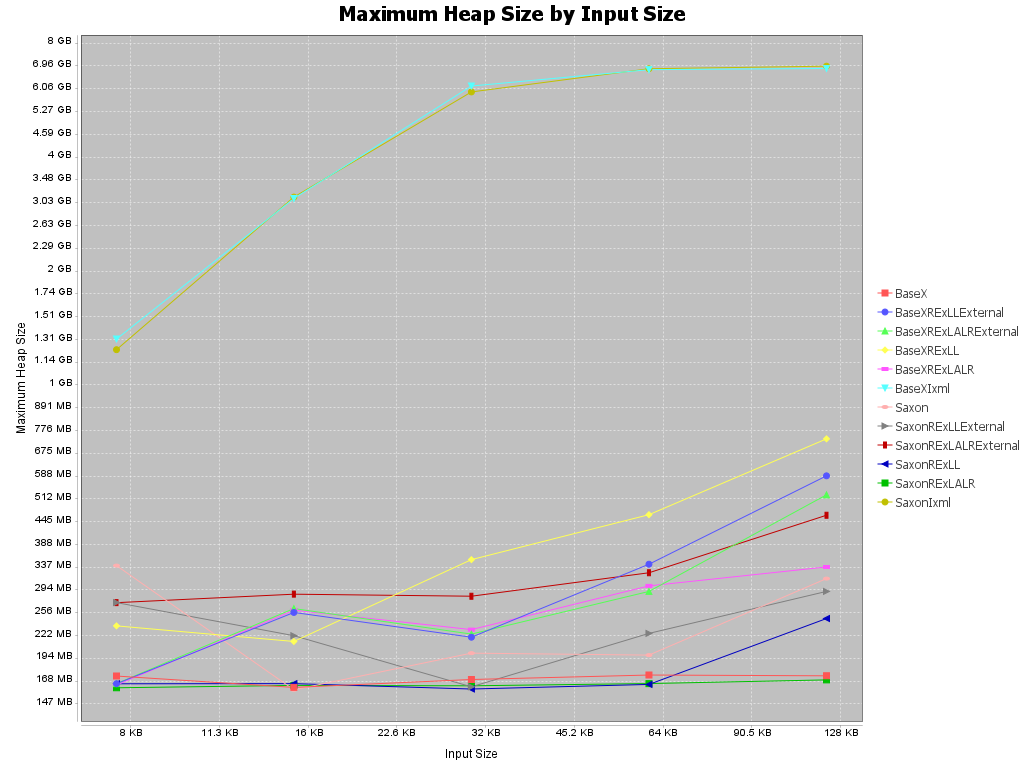
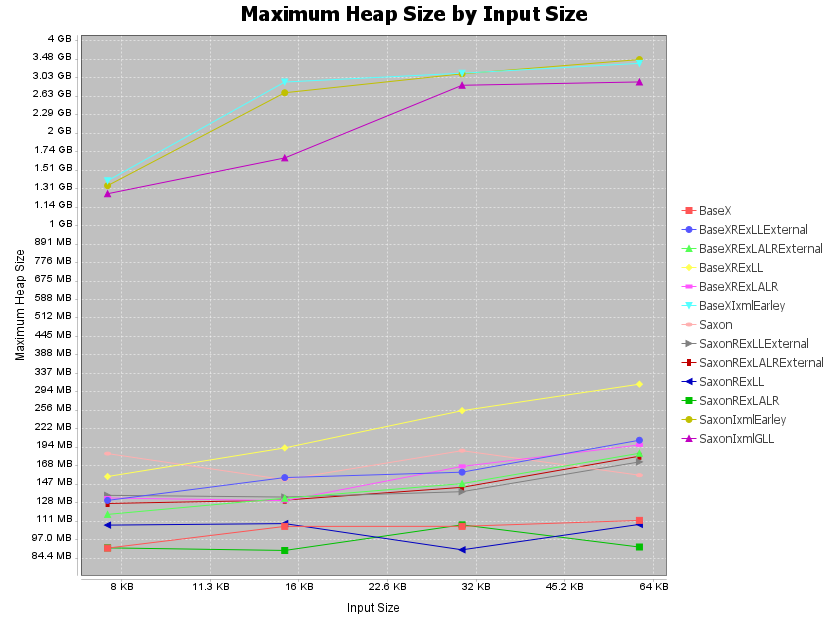
add SaxonIxmlGLL parser

diff --git a/src/main/java/de/bottlecaps/rex/benchmark/json/Size.java b/src/main/java/de/bottlecaps/rex/benchmark/json/Size.java
@@ -1,7 +1,7 @@
-// This file was generated on Sat Apr 15, 2023 11:21 (UTC+02) by REx v5.57 which is Copyright (c) 1979-2023 by Gunther Rademacher <grd@gmx.net>
-// REx command line: size.ebnf -java -a java -name de.bottlecaps.rex.benchmark.json.Size
+// This file was generated on Tue May 9, 2023 22:12 (UTC+02) by REx v5.57 which is Copyright (c) 1979-2023 by Gunther Rademacher <grd@gmx.net>
+// REx command line: Size.ebnf -java -a java -name de.bottlecaps.rex.benchmark.json.Size
 
-                                                            // line 2 "size.ebnf"
+                                                            // line 2 "Size.ebnf"
                                                             package de.bottlecaps.rex.benchmark.json;
 
                                                             public class Size
@@ -135,7 +135,7 @@
   {
     lookahead1(0);                  // double
     consume(1);                     // double
-                                                            // line 28 "size.ebnf"
+                                                            // line 28 "Size.ebnf"
                                                             value = Double.parseDouble(input.subSequence(b0, e0).toString());
                                                             // line 141 "Size.java"
     lookahead1(4);                  // ws | eof | 'B' | 'E' | 'G' | 'K' | 'M' | 'P' | 'T'
@@ -154,7 +154,7 @@
         {
           consume(4);               // 'B'
         }
-                                                            // line 32 "size.ebnf"
+                                                            // line 32 "Size.ebnf"
                                                             value *= 1024.0;
                                                             // line 160 "Size.java"
       }
@@ -167,7 +167,7 @@
         {
           consume(4);               // 'B'
         }
-                                                            // line 33 "size.ebnf"
+                                                            // line 33 "Size.ebnf"
                                                             value *= 1024.0 * 1024.0;
                                                             // line 173 "Size.java"
       }
@@ -180,7 +180,7 @@
         {
           consume(4);               // 'B'
         }
-                                                            // line 34 "size.ebnf"
+                                                            // line 34 "Size.ebnf"
                                                             value *= 1024.0 * 1024.0 * 1024.0;
                                                             // line 186 "Size.java"
       }
@@ -193,7 +193,7 @@
         {
           consume(4);               // 'B'
         }
-                                                            // line 35 "size.ebnf"
+                                                            // line 35 "Size.ebnf"
                                                             value *= 1024.0 * 1024.0 * 1024.0 * 1024.0;
                                                             // line 199 "Size.java"
       }
@@ -206,7 +206,7 @@
         {
           consume(4);               // 'B'
         }
-                                                            // line 36 "size.ebnf"
+                                                            // line 36 "Size.ebnf"
                                                             value *= 1024.0 * 1024.0 * 1024.0 * 1024.0 * 1024.0;
                                                             // line 212 "Size.java"
       }
@@ -219,7 +219,7 @@
         {
           consume(4);               // 'B'
         }
-                                                            // line 37 "size.ebnf"
+                                                            // line 37 "Size.ebnf"
                                                             value *= 1024.0 * 1024.0 * 1024.0 * 1024.0 * 1024.0 * 1024.0;
                                                             // line 225 "Size.java"
       }

diff --git a/src/main/java/de/bottlecaps/rex/benchmark/json/CommandLine.java b/src/main/java/de/bottlecaps/rex/benchmark/json/CommandLine.java
@@ -15,13 +15,14 @@ import de.bottlecaps.rex.benchmark.json.parsers.java.JavaCC;
 import de.bottlecaps.rex.benchmark.json.parsers.java.REx_LALR;
 import de.bottlecaps.rex.benchmark.json.parsers.java.REx_LL;
 import de.bottlecaps.rex.benchmark.json.parsers.xquery.BaseX;
-import de.bottlecaps.rex.benchmark.json.parsers.xquery.BaseXIxml;
+import de.bottlecaps.rex.benchmark.json.parsers.xquery.BaseXIxmlEarley;
 import de.bottlecaps.rex.benchmark.json.parsers.xquery.BaseXRExLALR;
 import de.bottlecaps.rex.benchmark.json.parsers.xquery.BaseXRExLALRExternal;
 import de.bottlecaps.rex.benchmark.json.parsers.xquery.BaseXRExLL;
 import de.bottlecaps.rex.benchmark.json.parsers.xquery.BaseXRExLLExternal;
 import de.bottlecaps.rex.benchmark.json.parsers.xquery.Saxon;
-import de.bottlecaps.rex.benchmark.json.parsers.xquery.SaxonIxml;
+import de.bottlecaps.rex.benchmark.json.parsers.xquery.SaxonIxmlEarley;
+import de.bottlecaps.rex.benchmark.json.parsers.xquery.SaxonIxmlGLL;
 import de.bottlecaps.rex.benchmark.json.parsers.xquery.SaxonRExLALR;
 import de.bottlecaps.rex.benchmark.json.parsers.xquery.SaxonRExLALRExternal;
 import de.bottlecaps.rex.benchmark.json.parsers.xquery.SaxonRExLL;
@@ -45,13 +46,14 @@ public class CommandLine {
       new BaseXRExLALRExternal(),
       new BaseXRExLL(),
       new BaseXRExLALR(),
-      new BaseXIxml(),
+      new BaseXIxmlEarley(),
       new Saxon(),
       new SaxonRExLLExternal(),
       new SaxonRExLALRExternal(),
       new SaxonRExLL(),
       new SaxonRExLALR(),
-      new SaxonIxml(),
+      new SaxonIxmlEarley(),
+      new SaxonIxmlGLL(),
   };
 
   private List<Parser> testParsers;

diff --git a/src/main/java/de/bottlecaps/rex/benchmark/json/Chart.java b/src/main/java/de/bottlecaps/rex/benchmark/json/Chart.java
@@ -31,6 +31,9 @@ import org.jfree.data.xy.DefaultXYDataset;
 import org.jfree.data.xy.XYDataset;
 
 public class Chart {
+  private static int CHART_WIDTH = 828;
+  private static int CHART_HEIGHT = 622;
+
   private static enum Property {
     chartTitle,
     xAxisLabel,
@@ -146,10 +149,7 @@ public class Chart {
   }
 
   public void writeToFile(String path) throws IOException {
-    Dimension preferredSize = new ChartPanel(jFreeChart, false).getPreferredSize();
-    int width = (int) preferredSize.getWidth();
-    int height = (int) preferredSize.getHeight();
-    ChartUtils.writeChartAsPNG(new FileOutputStream(path), jFreeChart, width, height);
+    ChartUtils.writeChartAsPNG(new FileOutputStream(path), jFreeChart, CHART_WIDTH, CHART_HEIGHT);
   }
 
   public void displayChart(String title) {
@@ -160,8 +160,7 @@ public class Chart {
           JFrame frame = new JFrame(title);
           frame.setDefaultCloseOperation(JFrame.EXIT_ON_CLOSE);
           ChartPanel chartPanel = new ChartPanel(jFreeChart, false);
-          chartPanel.setPreferredSize(new Dimension(828, 383
-              ));
+          chartPanel.setPreferredSize(new Dimension(CHART_WIDTH, CHART_HEIGHT));
           frame.add(chartPanel, BorderLayout.CENTER);
           frame.pack();
           frame.setLocationRelativeTo(null);

diff --git a/src/main/java/de/bottlecaps/rex/benchmark/json/parsers/xquery/SaxonIxmlEarley.java b/src/main/java/de/bottlecaps/rex/benchmark/json/parsers/xquery/SaxonIxmlEarley.java
@@ -1,0 +1,10 @@
+package de.bottlecaps.rex.benchmark.json.parsers.xquery;
+
+import org.nineml.coffeesacks.RegisterCoffeeSacks;
+
+public class SaxonIxmlEarley extends AbstractSaxonParser {
+
+  public SaxonIxmlEarley() {
+    super("saxon-ixml-earley.xq", new RegisterCoffeeSacks());
+  }
+}

diff --git a/src/main/java/de/bottlecaps/rex/benchmark/json/parsers/xquery/SaxonIxmlGLL.java b/src/main/java/de/bottlecaps/rex/benchmark/json/parsers/xquery/SaxonIxmlGLL.java
@@ -1,0 +1,10 @@
+package de.bottlecaps.rex.benchmark.json.parsers.xquery;
+
+import org.nineml.coffeesacks.RegisterCoffeeSacks;
+
+public class SaxonIxmlGLL extends AbstractSaxonParser {
+
+  public SaxonIxmlGLL() {
+    super("saxon-ixml-gll.xq", new RegisterCoffeeSacks());
+  }
+}

diff --git a/src/main/java/de/bottlecaps/rex/benchmark/json/parsers/xquery/BaseXIxmlEarley.java b/src/main/java/de/bottlecaps/rex/benchmark/json/parsers/xquery/BaseXIxmlEarley.java
@@ -1,0 +1,7 @@
+package de.bottlecaps.rex.benchmark.json.parsers.xquery;
+
+public class BaseXIxmlEarley extends AbstractBaseXParser {
+  public BaseXIxmlEarley() {
+    super("basex-ixml-earley.xq");
+  }
+}

diff --git a/README.md b/README.md
@@ -28,29 +28,34 @@ The result of all parsers for Java is a [com.fasterxml.jackson.databind.JsonNode
 
 These parsers are available:
 
-* `Jackson` - this is the reference implementation, using a [com.fasterxml.jackson.core.JsonParser](http://fasterxml.github.io/jackson-core/javadoc/2.14/com/fasterxml/jackson/core/JsonParser.html) as provided by the Jackson project itself, but using custom actions to create the result object.
-* `HandCrafted` - a hand-crafted JSON parser.
-* `REx_LL` - a REx-generated parser using the LL parsing algorithm.
-* `REx_LALR` - a REx-generated parser using the LALR parsing algorithm.
-* `JavaCC` - a [JavaCC](https://javacc.github.io/javacc/)-generated parser.
-* `ANTRL4` - a parser generated by [ANTLR 4](https://www.antlr.org/).
-* `Grammatica` - a parser generated by [Grammatica](https://grammatica.percederberg.net/).
+| Parser Name   | Generator                | Algorithm               |                                                        |
+| :------------ | :----------------------: | :---------------------: | :----------------------------------------------------- |
+| `Jackson`     |                          |                         | Reference: [com.fasterxml.jackson.core.JsonParser][JP] |
+| `HandCrafted` |                          | [recursive descent][RD] |                                                        |
+| `REx_LL`      | [REx][Rex]               | [LL][LL]                |                                                        |
+| `REx_LALR`    | [REx][Rex]               | [LALR][LALR]            |                                                        |
+| `JavaCC`      | [JavaCC][JavaCC]         | [LL][LL]                |                                                        |
+| `ANTLR4`      | [ANTLR 4][ANTLR4]        | [LL][LL]                |                                                        |
+| `Grammatica`  | [Grammatica][Grammatica] | [LL][LL]                |                                                        |
 
 ## Available parsers in XQuery
 The result of parsers for XQuery is an XML element as it would be produced by `fn:json-to-xml` (see definition in [XPath and XQuery 3.1 Functions and Operators](https://www.w3.org/TR/xpath-functions-31/#func-json-to-xml)).
 
-* `BaseX` - a reference implementation, directly using `fn:json-to-xml`, executed on BaseX.
-* `BaseXRExLL` - a REx-generated parser using the LL parsing algorithm, executed on BaseX.
-* `BaseXRExLALR` - a REx-generated parser using the LALR parsing algorithm, executed on BaseX.
-* `BaseXRExLLExternal` - a REx-generated parser using the LL parsing algorithm in an external function, executed on BaseX.
-* `BaseXRExLALRExternal` - a REx-generated parser using the LALR parsing algorithm in an external function, executed on BaseX.
-* `BaseXIxml` - a parser using [Invisible XML](https://invisiblexml.org/), implemented by [nineml.org](https://github.com/nineml) projects, executed on BaseX.
-* `SaxonX` - a reference implementation, directly using `fn:json-to-xml` executed on SaxonJ-HE.
-* `SaxonXRExLL` - a REx-generated parser using the LL parsing algorithm, executed on SaxonJ-HE.
-* `SaxonXRExLALR` - a REx-generated parser using the LALR parsing algorithm, executed on SaxonJ-HE.
-* `SaxonXRExLLExternal` - a REx-generated parser using the LL parsing algorithm in an external function, executed on SaxonJ-HE.
-* `SaxonXRExLALRExternal` - a REx-generated parser using the LALR parsing algorithm in an external function, executed on SaxonJ-HE.
-* `SaxonXIxml` - a parser using [Invisible XML](https://invisiblexml.org/), implemented by [nineml.org](https://github.com/nineml) projects, executed on SaxonJ-HE.
+| Parser Name            | Generator          | Algorithm        | Language | XQuery Processor       |                                   |
+| :--------------------- | :----------------: | :--------------: | :------: | :--------------------: | :-------------------------------- |
+| `BaseX`                |                    |                  | Java     | [BaseX][BaseX]         | Reference: [`fn:json-to-xml`][fn] |
+| `BaseXRExLL`           | [REx][Rex]         | [LL][LL]         | XQuery   | [BaseX][BaseX]         |                                   |
+| `BaseXRExLALR`         | [REx][Rex]         | [LALR][LALR]     | XQuery   | [BaseX][BaseX]         |                                   |
+| `BaseXRExLLExternal`   | [REx][Rex]         | [LL][LL]         | Java     | [BaseX][BaseX]         |                                   |
+| `BaseXRExLALRExternal` | [REx][Rex]         | [LALR][LALR]     | Java     | [BaseX][BaseX]         |                                   |
+| `BaseXIxmlEarley`      | [CoffeeFilter][CF] | [Earley][Earley] | Java     | [BaseX][BaseX]         |                                   |
+| `Saxon`                |                    |                  | Java     | [SaxonJ-HE][SaxonJ-HE] | Reference: [`fn:json-to-xml`][fn] |
+| `SaxonRExLL`           | [REx][Rex]         | [LL][LL]         | XQuery   | [SaxonJ-HE][SaxonJ-HE] |                                   |
+| `SaxonRExLALR`         | [REx][Rex]         | [LALR][LALR]     | XQuery   | [SaxonJ-HE][SaxonJ-HE] |                                   |
+| `SaxonRExLLExternal`   | [REx][Rex]         | [LL][LL]         | Java     | [SaxonJ-HE][SaxonJ-HE] |                                   |
+| `SaxonRExLALRExternal` | [REx][Rex]         | [LALR][LALR]     | Java     | [SaxonJ-HE][SaxonJ-HE] |                                   |
+| `SaxonIxmlGLL`         | [CoffeeFilter][CF] | [GLL][GLL]       | Java     | [SaxonJ-HE][SaxonJ-HE] |                                   |
+| `SaxonIxmlEarley`      | [CoffeeFilter][CF] | [Earley][Earley] | Java     | [SaxonJ-HE][SaxonJ-HE] |                                   |
 
 ## Building rex-parser-benchmark
 
@@ -135,3 +140,17 @@ gradlew run --args="--platform xquery src/main/resources/8KB.json"
 This project is subject to the [Apache 2 License][ASL].
 
 [ASL]: http://www.apache.org/licenses/LICENSE-2.0
+[REx]: https://bottlecaps.de/rex
+[LL]: https://en.wikipedia.org/wiki/LL_parser
+[GLL]: https://www.cs.rhul.ac.uk/research/languages/csle/GLLparsers.html
+[LALR]: https://en.wikipedia.org/wiki/LALR_parser
+[BaseX]: https://basex.org/
+[fn]: https://www.w3.org/TR/xpath-functions-31/#func-json-to-xml
+[SaxonJ-HE]: https://www.saxonica.com/products/products.xml
+[Earley]: https://en.wikipedia.org/wiki/Earley_parser
+[CF]: https://github.com/nineml/coffeefilter   
+[RD]: https://en.wikipedia.org/wiki/Recursive_descent_parser
+[JavaCC]: https://javacc.github.io/javacc/
+[ANTLR4]: https://www.antlr.org/
+[Grammatica]: https://grammatica.percederberg.net/
+[JP]: http://fasterxml.github.io/jackson-core/javadoc/2.14/com/fasterxml/jackson/core/JsonParser.html
